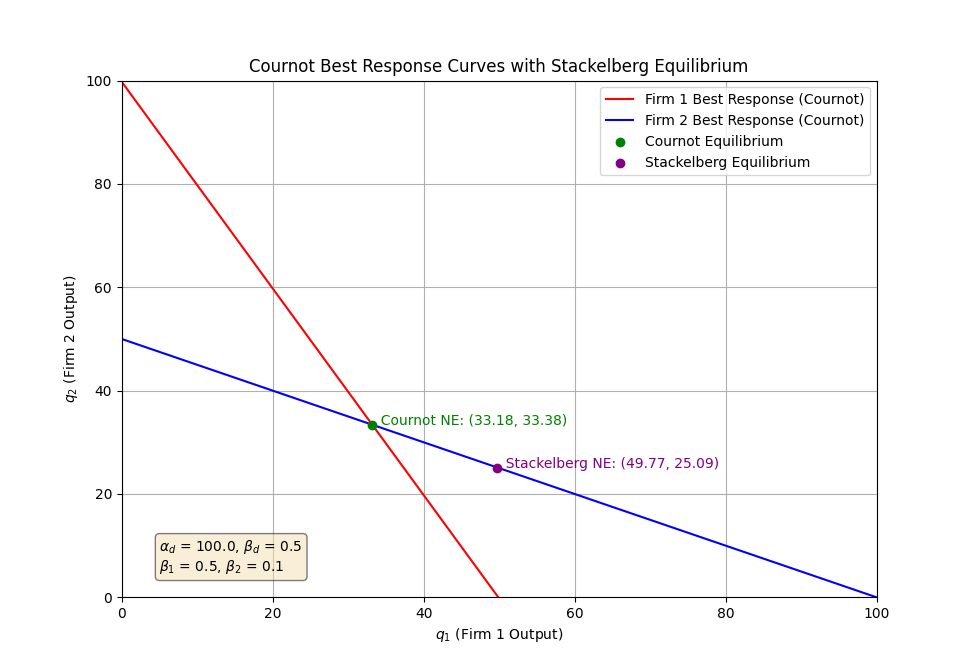
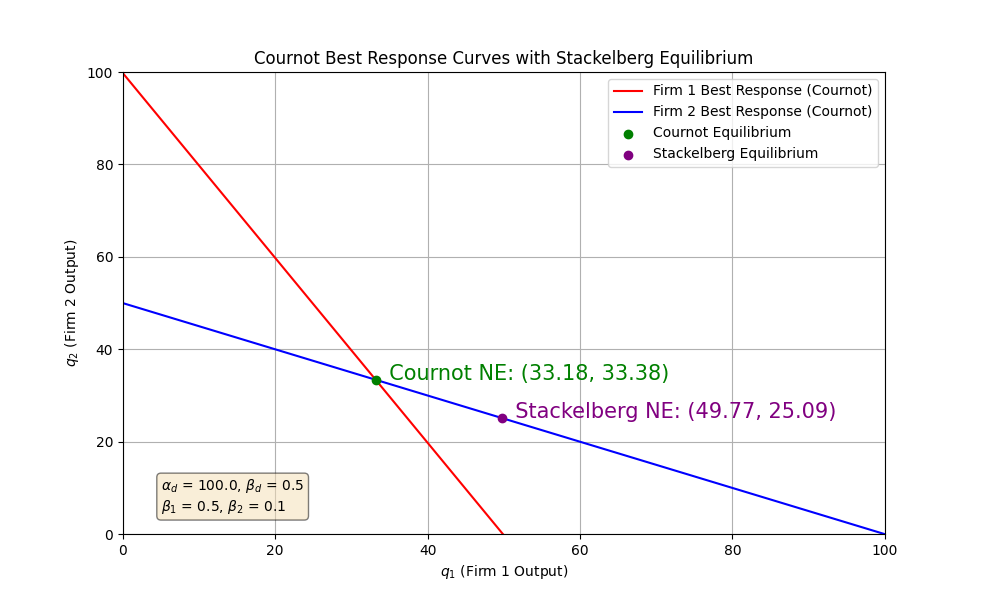
im done with life

diff --git a/Comparison/Cournot_Stackelberg_NE_Comp.py b/Comparison/Cournot_Stackelberg_NE_Comp.py
@@ -26,9 +26,9 @@ plt.figure(figsize=(8, 6))
 plt.plot(q1_range, BR1, label="Firm 1 Best Response (Cournot)", color="red")
 plt.plot(q1_range, BR2, label="Firm 2 Best Response (Cournot)", color="blue")
 plt.scatter([q1_cournot], [q2_cournot], color="green", zorder=5, label="Cournot Equilibrium")
-plt.text(q1_cournot, q2_cournot, f"  Cournot NE: ({q1_cournot:.2f}, {q2_cournot:.2f})", color="green", fontsize=10)
+plt.text(q1_cournot, q2_cournot, f"  Cournot NE: ({q1_cournot:.2f}, {q2_cournot:.2f})", color="green", fontsize=15)
 plt.scatter([q1_stack], [q2_stack], color="purple", zorder=5, label="Stackelberg Equilibrium")
-plt.text(q1_stack, q2_stack, f"  Stackelberg NE: ({q1_stack:.2f}, {q2_stack:.2f})", color="purple", fontsize=10)
+plt.text(q1_stack, q2_stack, f"  Stackelberg NE: ({q1_stack:.2f}, {q2_stack:.2f})", color="purple", fontsize=15)
 
 plt.xlabel(r"$q_1$ (Firm 1 Output)")
 plt.ylabel(r"$q_2$ (Firm 2 Output)")

diff --git a/Cornout/Duopoly/Basic Outputs/Cornout_Duo_Nash_Equilibrium.py b/Cornout/Duopoly/Basic Outputs/Cornout_Duo_Nash_Equilibrium.py
@@ -17,10 +17,14 @@ plt.figure(figsize=(8, 6))
 plt.plot(q1_range, BR1, label="Firm 1 Best Response", color="red")
 plt.plot(q1_range, BR2, label="Firm 2 Best Response", color="blue")
 plt.scatter([q1_star], [q2_star], color="green", zorder=5, label="Nash Equilibrium")
-plt.text(q1_star, q2_star, f"  NE: ({q1_star:.2f}, {q2_star:.2f})", color="green", fontsize=10)
+plt.text(q1_star, q2_star, f"  NE: ({q1_star:.2f}, {q2_star:.2f})", color="green", fontsize=15)
 plt.xlabel(r"$q_1$ (Firm 1 Output)")
 plt.ylabel(r"$q_2$ (Firm 2 Output)")
 plt.title("Best Response Curves in Cournot Duopoly")
+params_text = f"$\\alpha_d$ = {alphad}, $\\beta_d$ = {betad}\n$\\beta_1$ = {beta1}, $\\beta_2$ = {beta2}"
+plt.text(0.05, 0.05, params_text, transform=plt.gca().transAxes,
+         fontsize=10, bbox=dict(boxstyle="round", facecolor="wheat", alpha=0.5))
+
 plt.legend()
 plt.grid(True)
 plt.xlim(0, alphad/2)

diff --git a/Stackleberg/Duopoly/Independent Parameters/Stackelberg_Duopoly_Vary_BetaD.py b/Stackleberg/Duopoly/Independent Parameters/Stackelberg_Duopoly_Vary_BetaD.py
@@ -6,7 +6,7 @@ beta1  = 0.5
 beta2  = 0.1      
 
 
-betad_values = np.linspace(0.1, 1.0, 100)
+betad_values = np.linspace(0.1, 10, 100)
 
 q1_values = (alphad + betad_values*(beta2 - 2*beta1)) / 2.0
 q2_values = (alphad - betad_values*(3*beta2 - 2*beta1)) / 4.0
